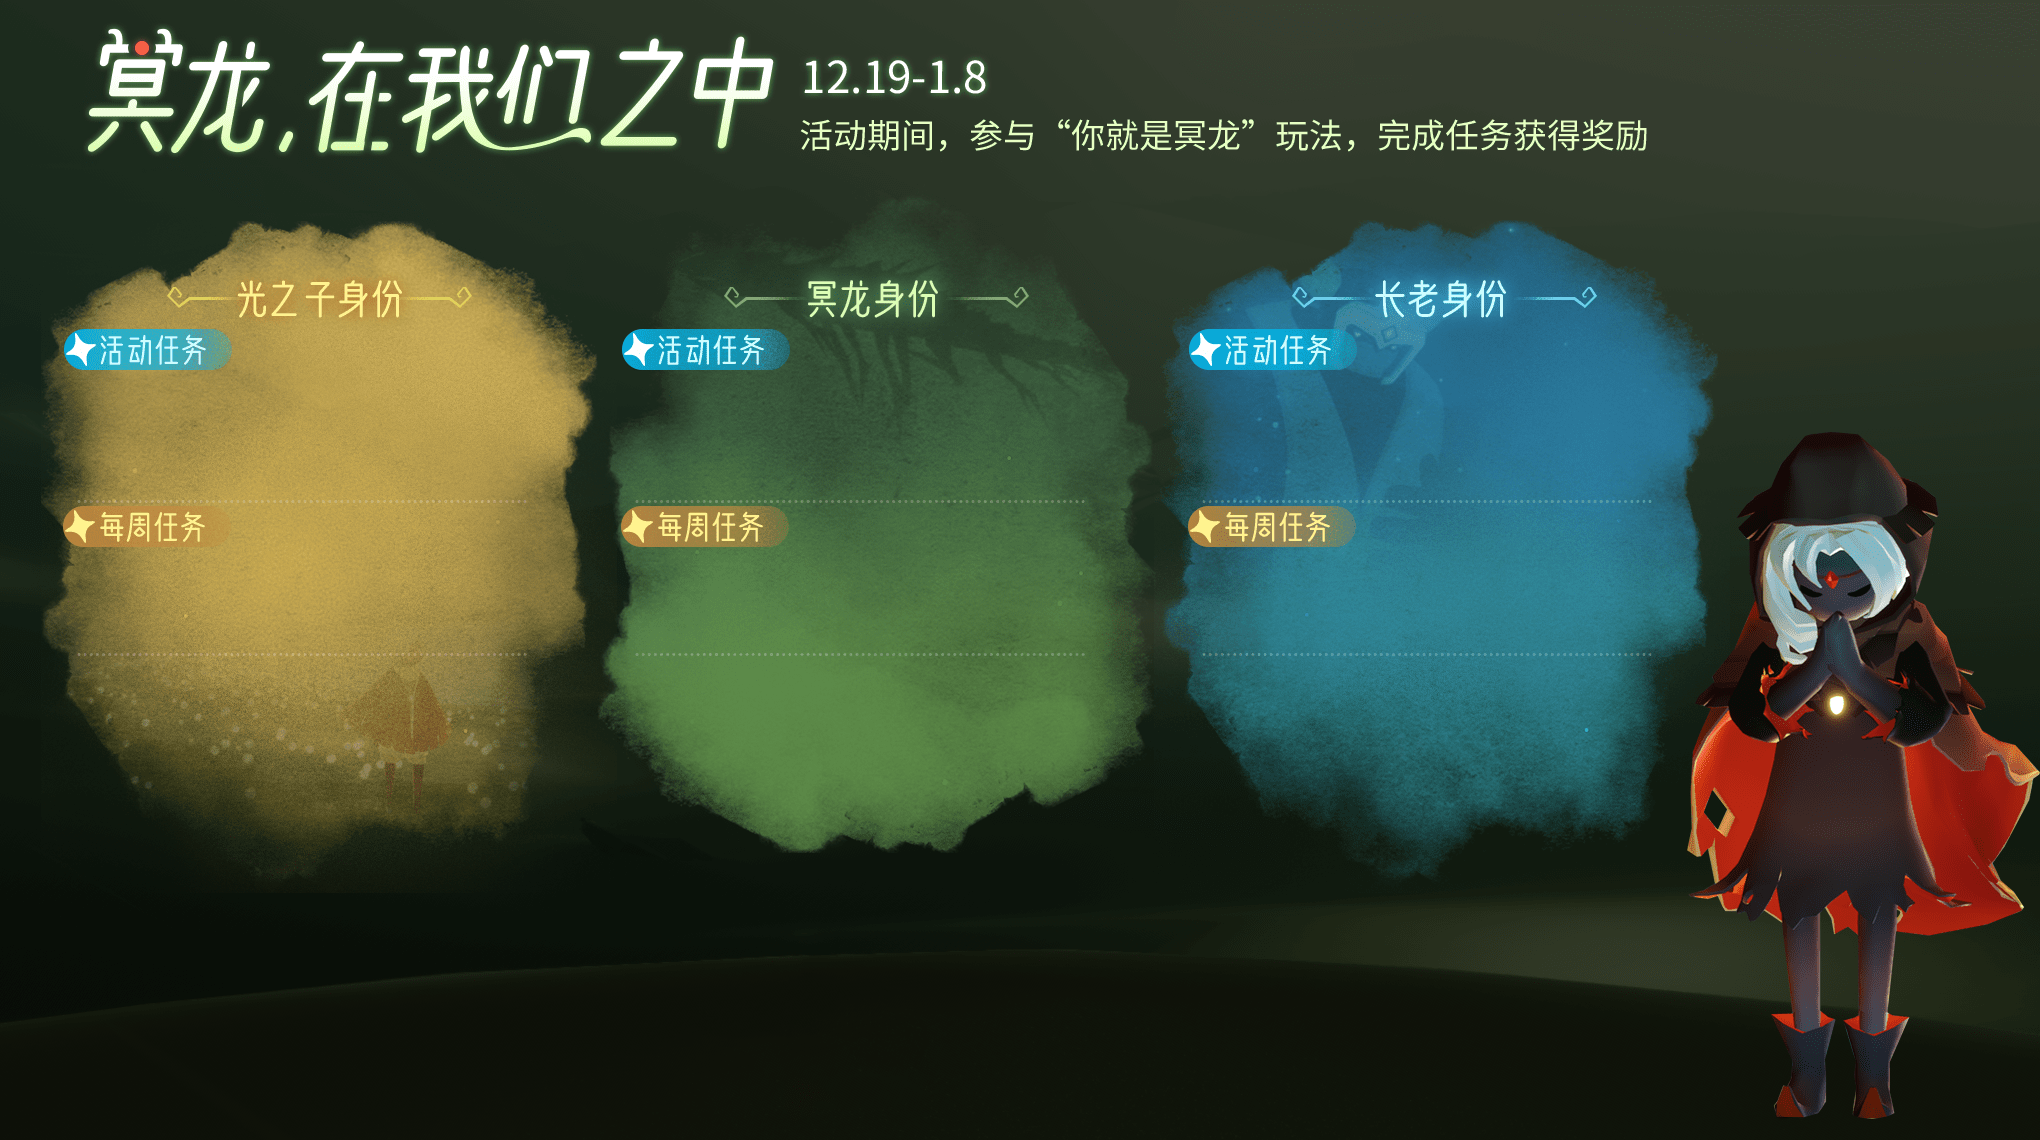
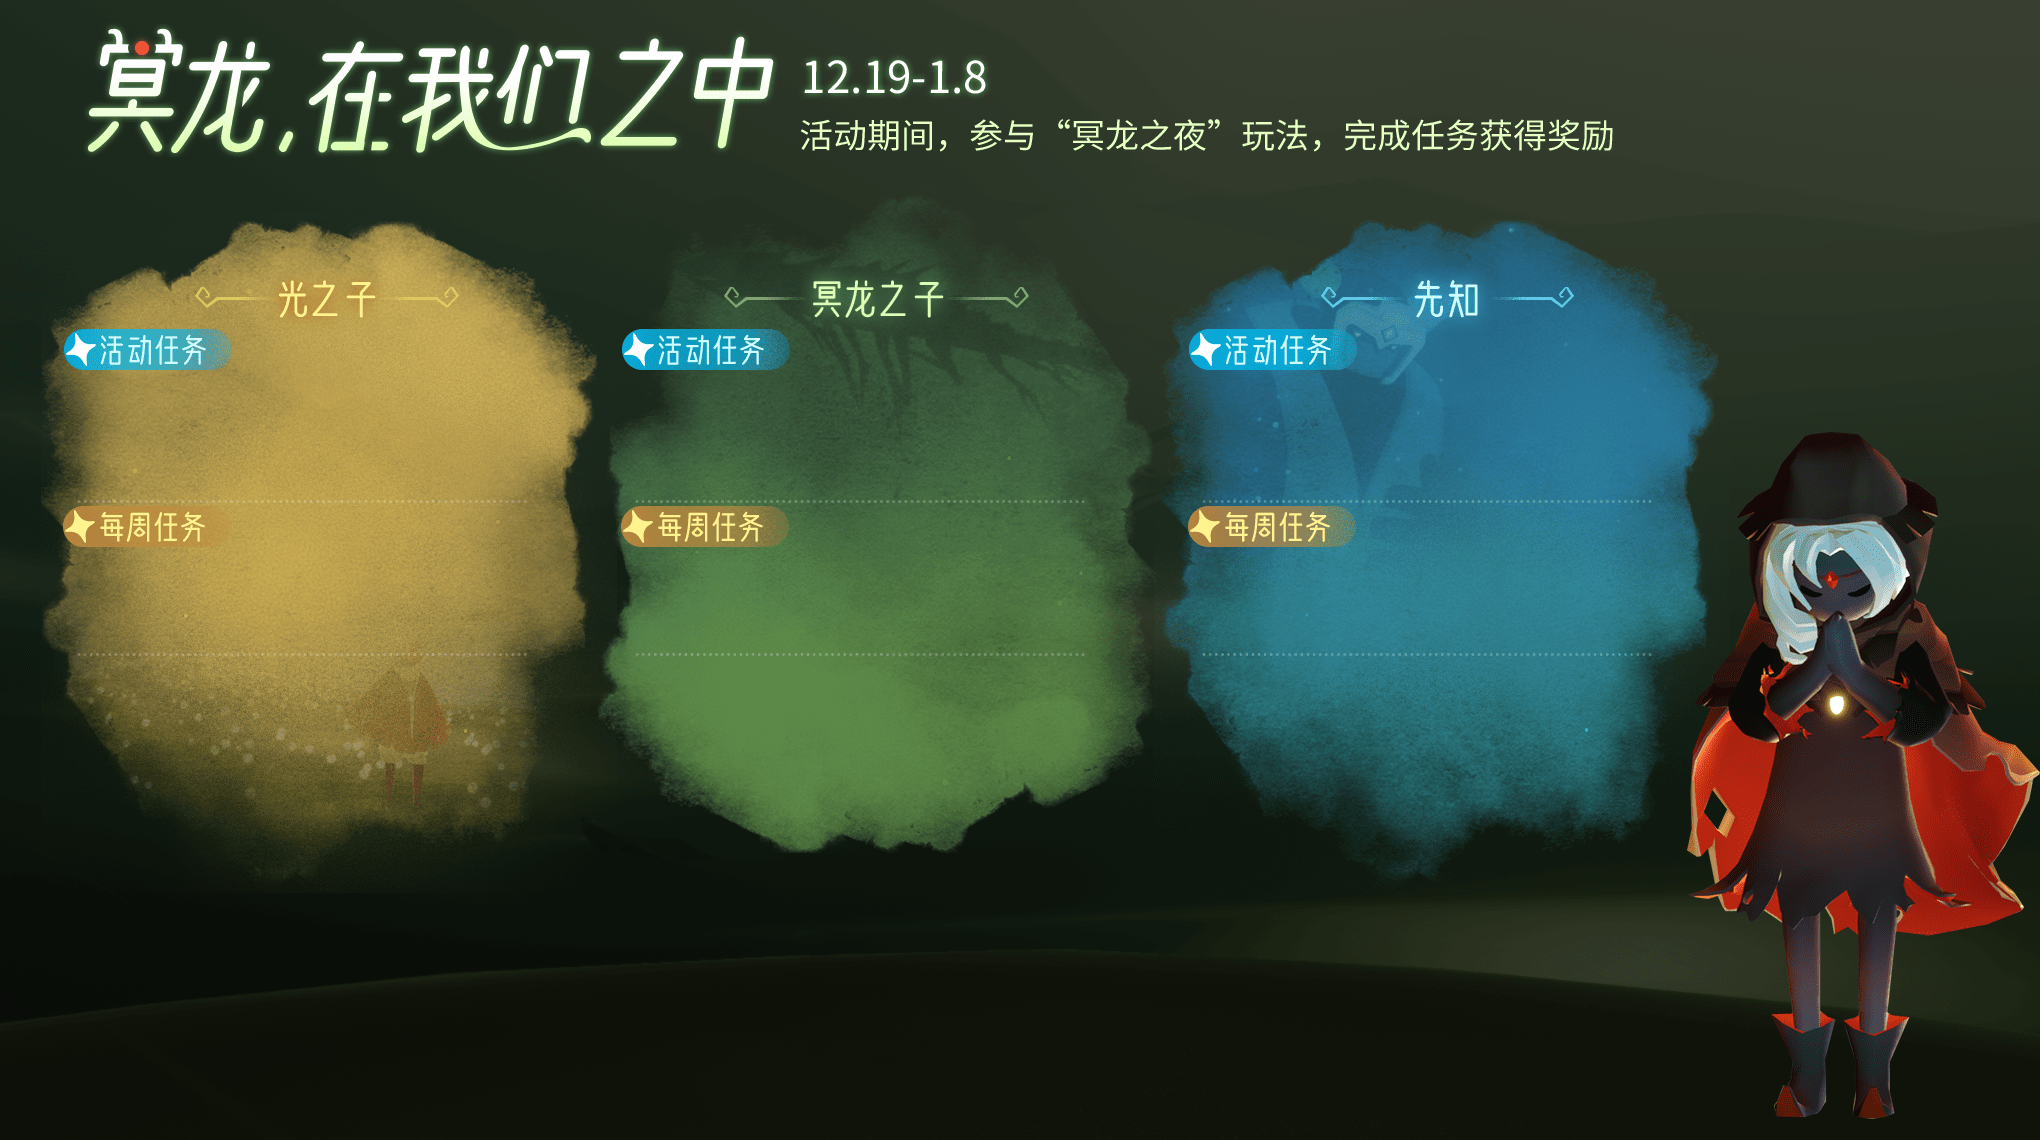
refs #66111 【需求确认】【狼人杀联动活动中心】活动中心中“冥龙身份”和“长老身份”，还未替换为修改后的冥龙之子和长老

diff --git a/src/views/NeteaseWerewolfJoin/NeteaseWerewolfJoin.vue b/src/views/NeteaseWerewolfJoin/NeteaseWerewolfJoin.vue
@@ -152,7 +152,7 @@ const createTaskItem = (
   hadRenderLottie,
 })
 
-// 光之子身份
+// 光之子
 const PLAYER_TASK_LIST = [
   createTaskItem(3, 'activitycenter_werewolf_player_m3', '成功指认冥龙'),
   createTaskItem(1, 'activitycenter_werewolf_player_m1', '完成一场游戏'),
@@ -163,9 +163,9 @@ const PLAYER_TASK_LIST = [
   ),
 ]
 
-// 冥龙身份
+// 冥龙之子
 const KRILL_TASK_LIST = [
-  createTaskItem(3, 'activitycenter_werewolf_krill_m3', '成功撞翻光之子或长老'),
+  createTaskItem(3, 'activitycenter_werewolf_krill_m3', '成功撞翻光之子或先知'),
   createTaskItem(1, 'activitycenter_werewolf_krill_m1', '完成一场游戏'),
   createTaskItem(
     2,
@@ -174,7 +174,7 @@ const KRILL_TASK_LIST = [
   ),
 ]
 
-// 长老身份
+// 先知
 const SPIRIT_TASK_LIST = [
   createTaskItem(3, 'activitycenter_werewolf_spirit_m3', '成功查验到冥龙'),
   createTaskItem(1, 'activitycenter_werewolf_spirit_m1', '完成一场游戏'),
@@ -278,11 +278,11 @@ const updateTaskList = (
   })
 }
 
-// 光之子身份
+// 光之子
 const playerTaskList = updateTaskList(PLAYER_TASK_LIST, 0)
-// 冥龙身份
+// 冥龙之子
 const krillTaskList = updateTaskList(KRILL_TASK_LIST, 3)
-// 长老身份
+// 先知
 const spiritTaskList = updateTaskList(SPIRIT_TASK_LIST, 6)
 // 累积任务列表
 const accTaskList = updateTaskList(ACC_TASK_LIST, ACC_TASK_ACTIVITY_INDEX, true)
@@ -295,9 +295,9 @@ const taskLists = computed(() => ({
 }))
 
 const titles: Record<string, string> = {
-  player: '光之子身份',
-  krill: '冥龙身份',
-  spirit: '长老身份',
+  player: '光之子',
+  krill: '冥龙之子',
+  spirit: '先知',
 }
 
 const sessionIsVisitedKey = 'isVisitedNeteaseWerewolfJoin'
